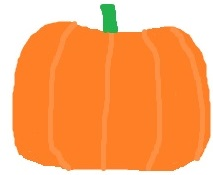
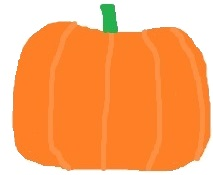
moved image into jumbotron on index.html

diff --git a/Halloween DIY/public_html/index.html b/Halloween DIY/public_html/index.html
@@ -65,13 +65,13 @@ header {color:red;}
 <br>
 <header>
 <div align="center" class="jumbotron">
+<div align="left"><img alt='pumpkin header image' src="images/pumpkin.jpg" height="200" width="200"/></div>
   <h1>Caitlin and Hannah's Halloween Crafts</h1>
   <p>We are here to bring you affordable, and adorable homemade ideas for Halloween crafts!!!</p>
   <p>Sign Up for our SPOOKY NEWSLETTERS!</p>
   <p><a href="signup.html" class="btn btn-primary btn-lg">Sign Up</a></p>
 </div>
 
-<img alt='pumpkin header image' src="images/pumpkin.jpg" height="200" width="200"/>
 <p> This is Caitlin and Hannah's Halloween crafts! Find all of your spooky, kid friendly craft ideas here!</p>
 </header>
 
